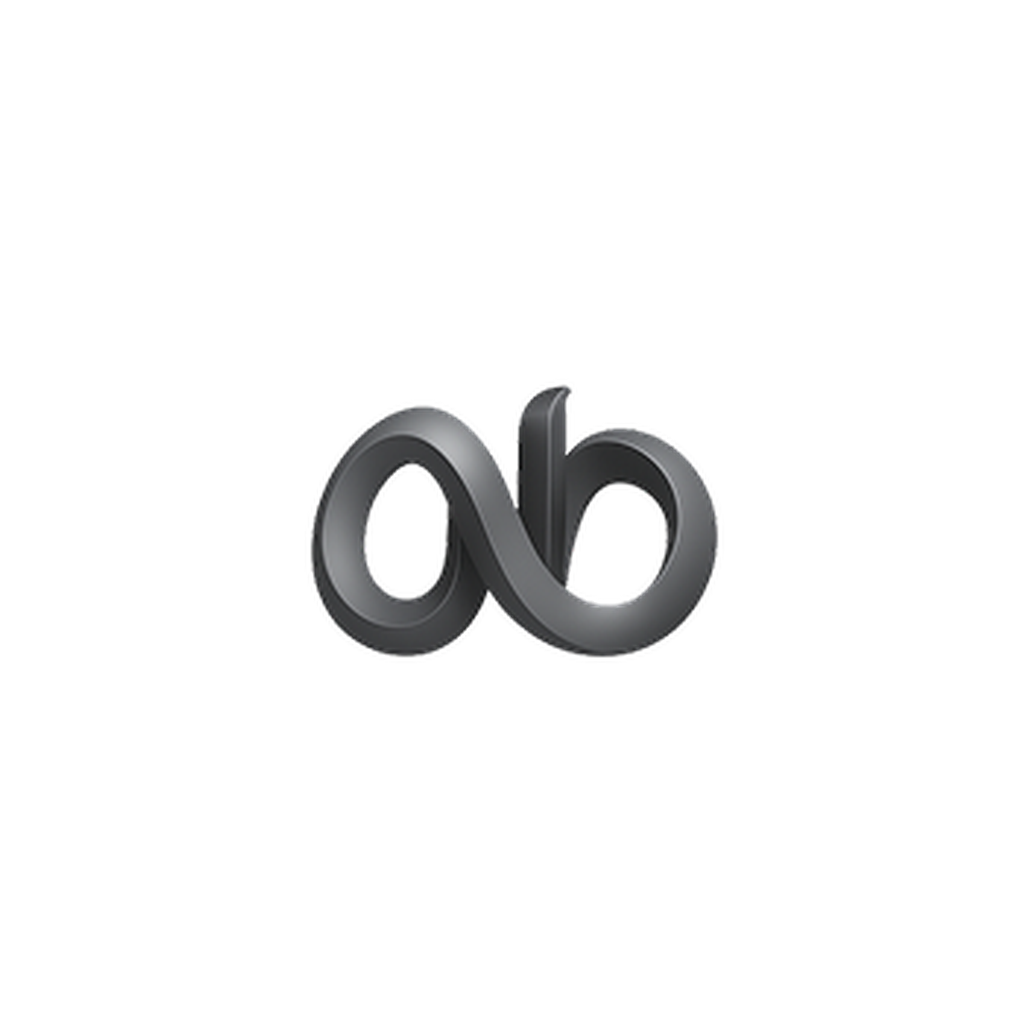
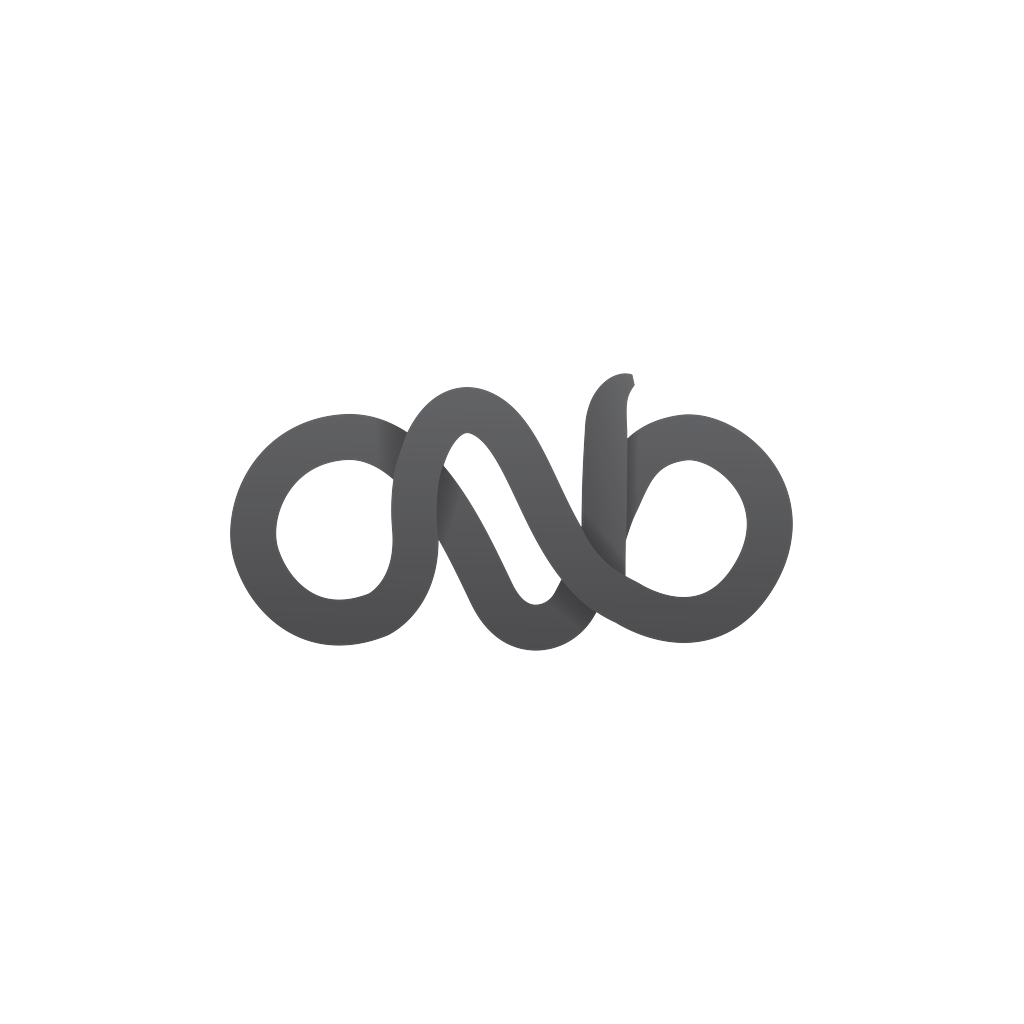
feat(rn): T-153 브랜딩 — 새 로고 아이콘·통화 워터마크 로고화·클론등록 가이드 인물 라인아트·preview-sim 프로파일

Changed region(s): [[0.2188, 0.3438, 0.7812, 0.6562]]

diff --git a/afterlifeRN/src/components/clone/UpperBodyGuide.tsx b/afterlifeRN/src/components/clone/UpperBodyGuide.tsx
@@ -1,19 +1,21 @@
 import React from "react";
-import Svg, { Circle, Path } from "react-native-svg";
+import Svg, { Path } from "react-native-svg";
 
 interface Props { width: number; color?: string; opacity?: number }
+
+const PERSON_OUTLINE_PATH =
+  "M53.1 35.8 L45.7 36.5 L42.4 37.4 L36.2 42.1 L32.3 47.9 L28.8 57.2 L27.1 69.7 L23.2 85.6 L22.9 90.1 L24.4 95.2 L23.1 97.0 L20.0 98.9 L13.9 101.5 L10.9 105.9 L9.2 110.2 L8.0 111.6 L6.8 116.6 L5.6 117.9 L5.5 120.5 L0.0 137.4 L0.6 138.4 L4.8 140.6 L6.5 141.3 L10.5 141.4 L11.2 142.3 L10.7 146.3 L10.9 148.4 L9.8 154.0 L9.8 159.0 L8.5 160.3 L8.9 161.8 L8.5 163.9 L8.5 171.3 L12.3 184.5 L15.1 192.0 L13.9 198.9 L14.4 200.0 L84.5 200.0 L84.9 199.4 L83.9 192.9 L86.4 186.4 L90.8 171.3 L92.6 142.6 L100.0 138.3 L92.0 112.2 L87.7 102.6 L86.7 101.6 L78.2 98.1 L77.3 97.2 L78.1 94.8 L78.2 91.4 L76.8 82.7 L75.0 76.6 L71.2 56.8 L68.5 49.1 L65.7 44.4 L62.6 40.6 L58.5 37.6 L53.7 35.8 Z";
 
 export default function UpperBodyGuide({ width, color = "#FFFFFF", opacity = 0.6 }: Props) {
   const height = width * 2;
   return (
     <Svg width={width} height={height} viewBox="0 0 100 200" opacity={opacity}>
-      <Circle cx="50" cy="48" r="24" stroke={color} strokeWidth="2.5" fill="none" />
       <Path
-        d="M14 200 C14 150 26 120 50 120 C74 120 86 150 86 200"
+        d={PERSON_OUTLINE_PATH}
         stroke={color}
-        strokeWidth="2.5"
+        strokeWidth={1.2}
         fill="none"
-        strokeLinecap="round"
+        strokeLinejoin="round"
       />
     </Svg>
   );

diff --git a/afterlifeRN/src/screens/clone-interaction/CallScreen.tsx b/afterlifeRN/src/screens/clone-interaction/CallScreen.tsx
@@ -1236,7 +1236,11 @@ export default function CallScreen({ route, navigation }: Props) {
         style={[s.watermarkLayer, { bottom: bottomInset + 96 }]}
         pointerEvents="none"
       >
-        <Text style={s.watermarkText}>afterlife</Text>
+        <Image
+          source={require("../../../assets/images/brand/watermark-logo.png")}
+          style={s.watermarkLogo}
+          resizeMode="contain"
+        />
       </View>
 
       {
@@ -1423,15 +1427,11 @@ const s = StyleSheet.create({
     alignItems: "center",
     zIndex: 14,
   },
-  watermarkText: {
-    color: "rgba(255, 255, 255, 0.5)",
-    fontSize: 20,
-    fontWeight: "600",
-    letterSpacing: 0.5,
 
-    textShadowColor: "rgba(60, 60, 60, 0.9)",
-    textShadowOffset: { width: 0, height: 0 },
-    textShadowRadius: 2,
+  watermarkLogo: {
+    width: 88,
+    aspectRatio: 800 / 715,
+    tintColor: "rgba(255, 255, 255, 0.55)",
   },
   container: {
     flex: 1,
